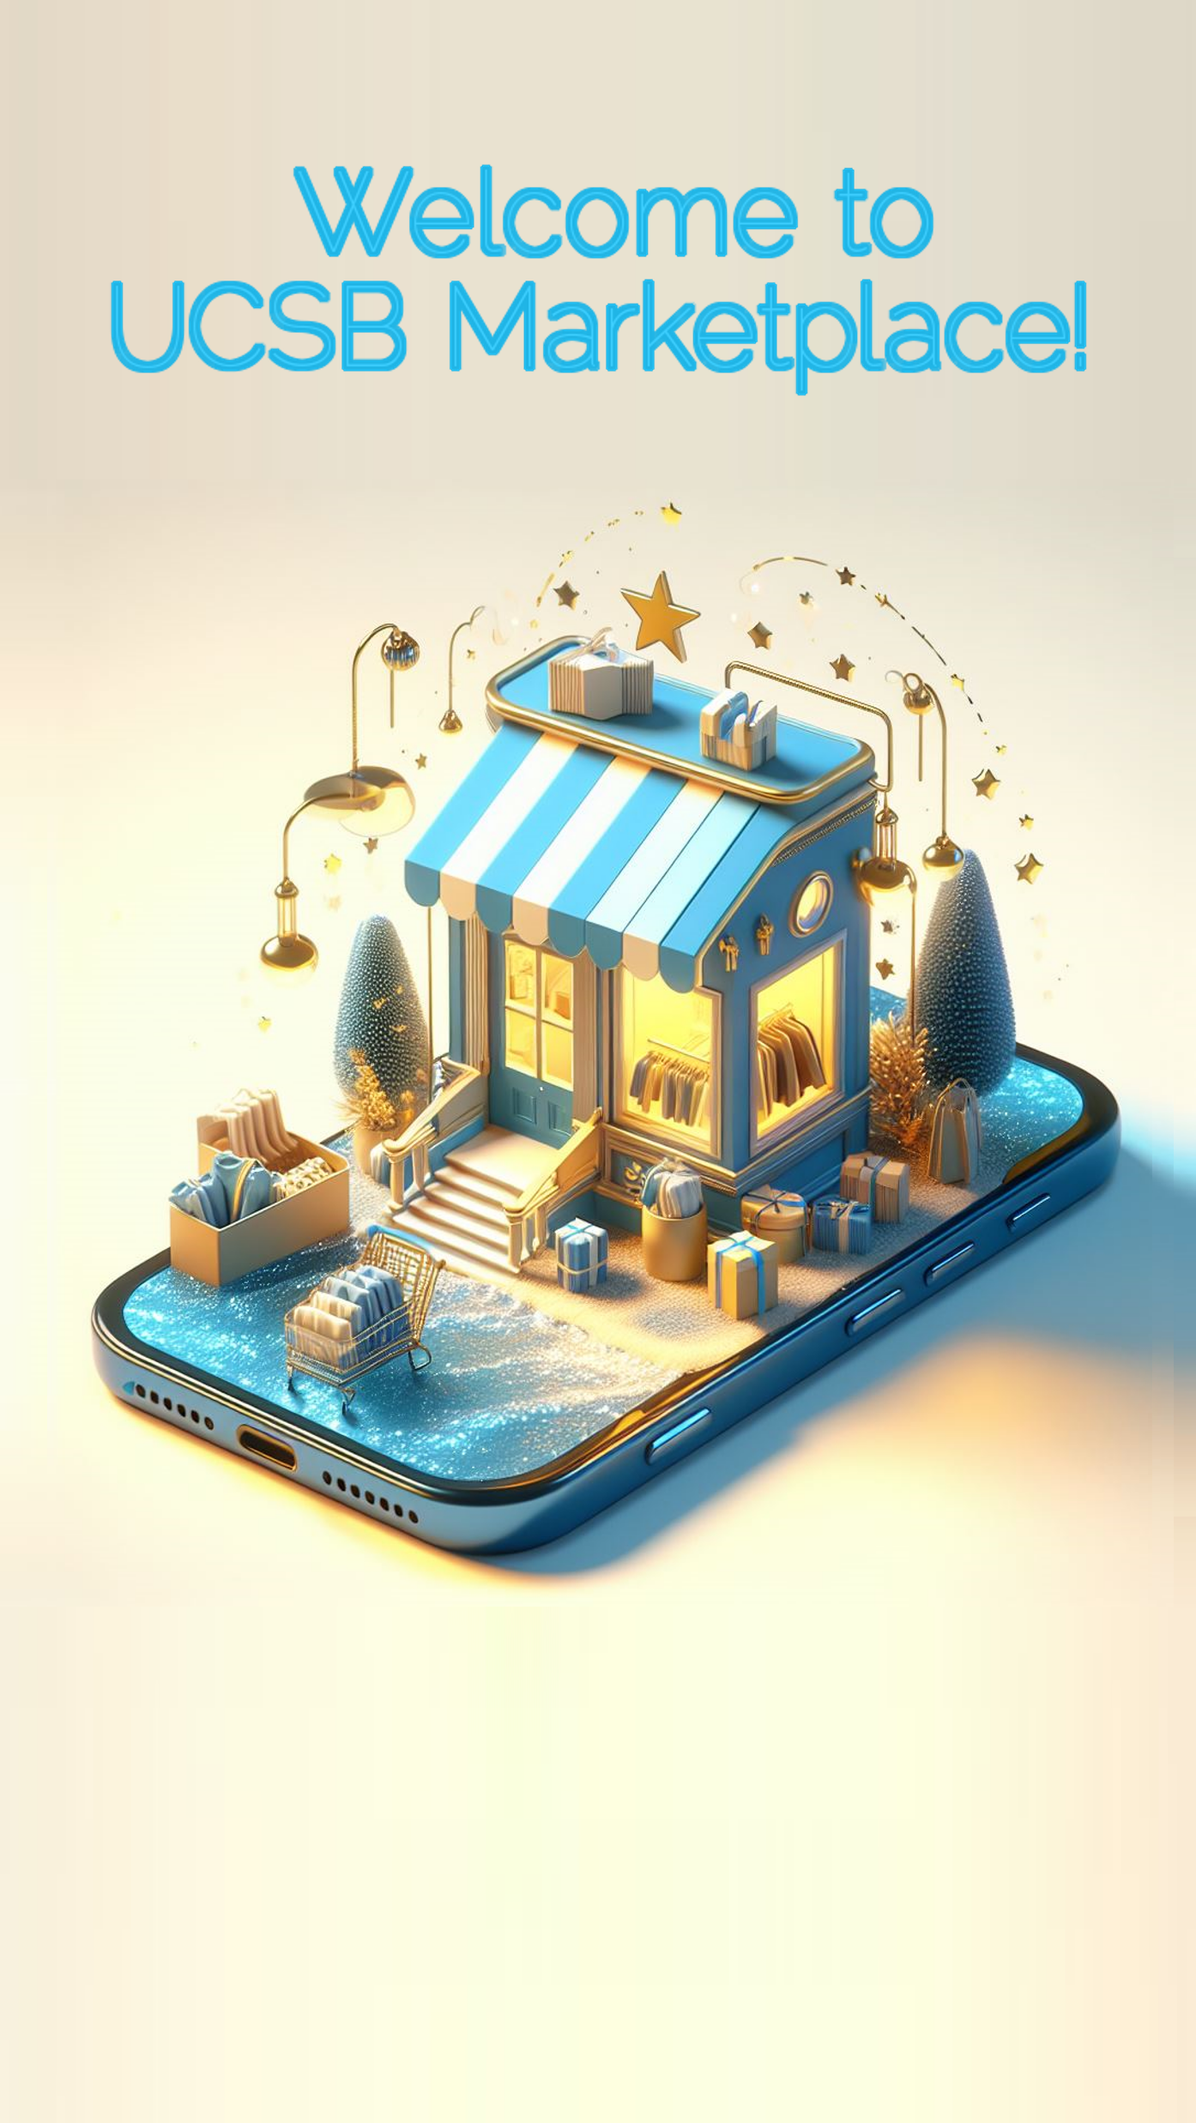
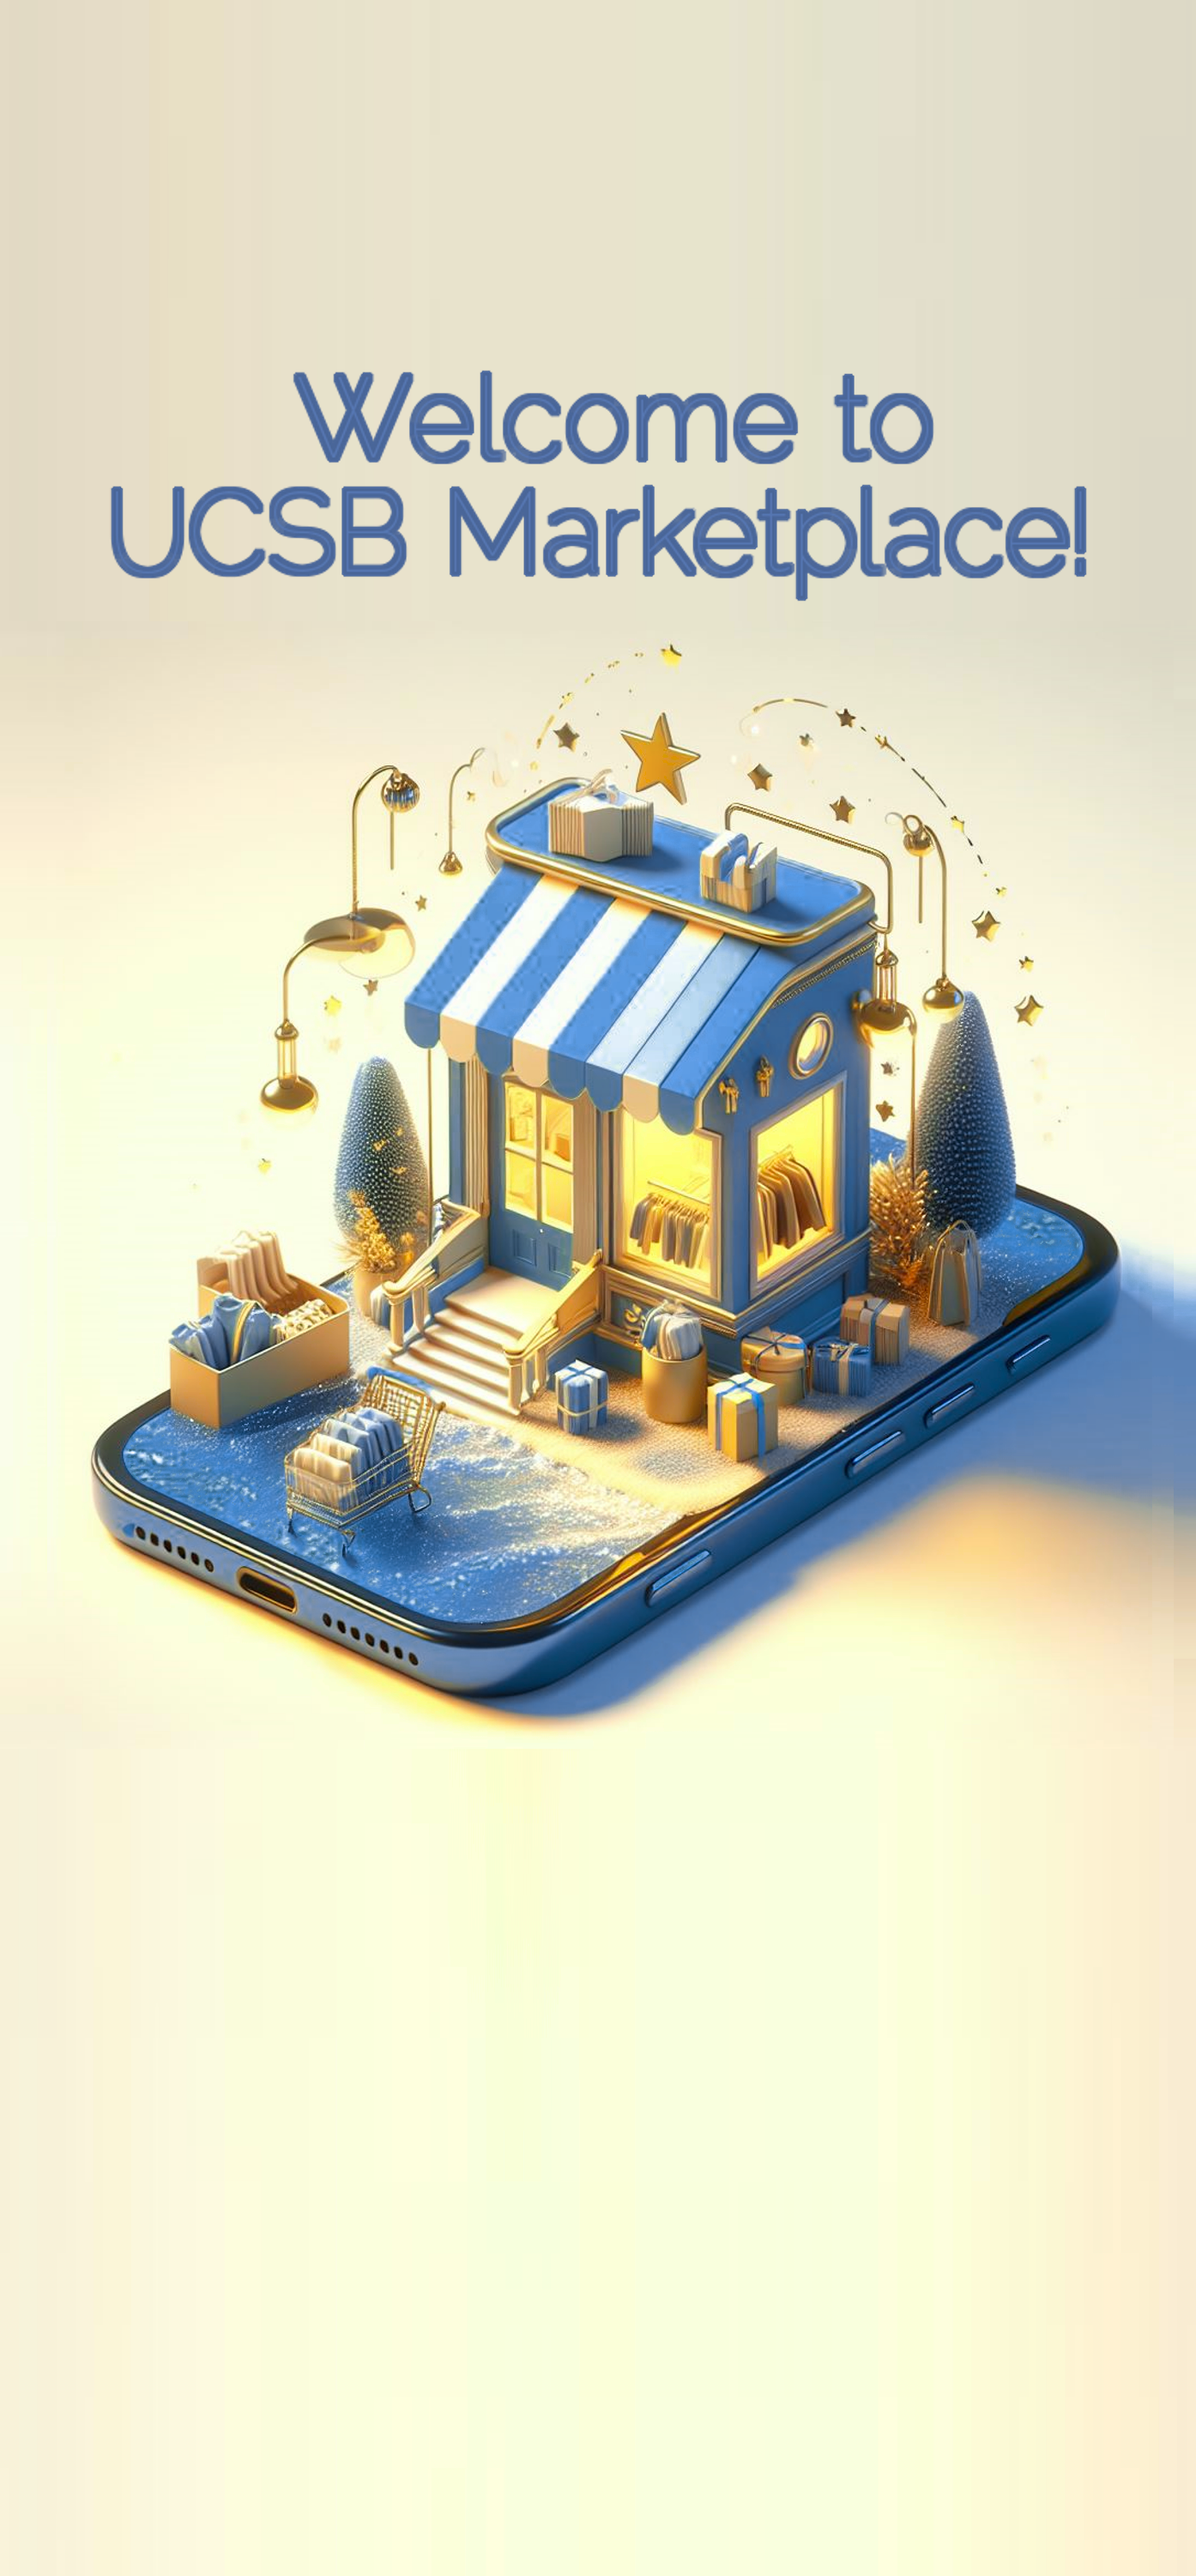
Color fixes

diff --git a/starter-code/src/screen/logInPage.tsx b/starter-code/src/screen/logInPage.tsx
@@ -129,7 +129,7 @@ const GoogleSignInButton = ({ setIsLoggedIn }) => {
 const Login = ({ setIsLoggedIn }) => {
   return (
     <View style={styles.container}>
-          <ImageBackground source={image} style={{width: '100%', height: '100%'}} resizeMode="cover">
+          <ImageBackground source={image} style={{width: '100%', height: '112%'}} resizeMode="cover">
           <TouchableOpacity 
         style={styles.googleSignInButton}
         onPress={() => signInWithGoogle(setIsLoggedIn)}
@@ -172,11 +172,11 @@ const styles = StyleSheet.create({
     alignContent: 'center',
   },
   googleSignInButton: {
-    backgroundColor: '#3DCFFF',  // Bright blue background
+    backgroundColor: '#2F3A85',  // Bright blue background
     borderRadius: 20,            // Border-radius of 20px
     padding: 10,                 // Add padding for better visual appearance
     alignSelf: 'center',        // Center content horizontally
-    marginTop: '160%',
+    marginTop: '170%',
     width: '70%',
   },
   googleSignInButtonText: {

diff --git a/.expo/README.md b/.expo/README.md
@@ -1,0 +1,15 @@
+> Why do I have a folder named ".expo" in my project?
+
+The ".expo" folder is created when an Expo project is started using "expo start" command.
+
+> What do the files contain?
+
+- "devices.json": contains information about devices that have recently opened this project. This is used to populate the "Development sessions" list in your development builds.
+- "packager-info.json": contains port numbers and process PIDs that are used to serve the application to the mobile device/simulator.
+- "settings.json": contains the server configuration that is used to serve the application manifest.
+
+> Should I commit the ".expo" folder?
+
+No, you should not share the ".expo" folder. It does not contain any information that is relevant for other developers working on the project, it is specific to your machine.
+
+Upon project creation, the ".expo" folder is already added to your ".gitignore" file.
